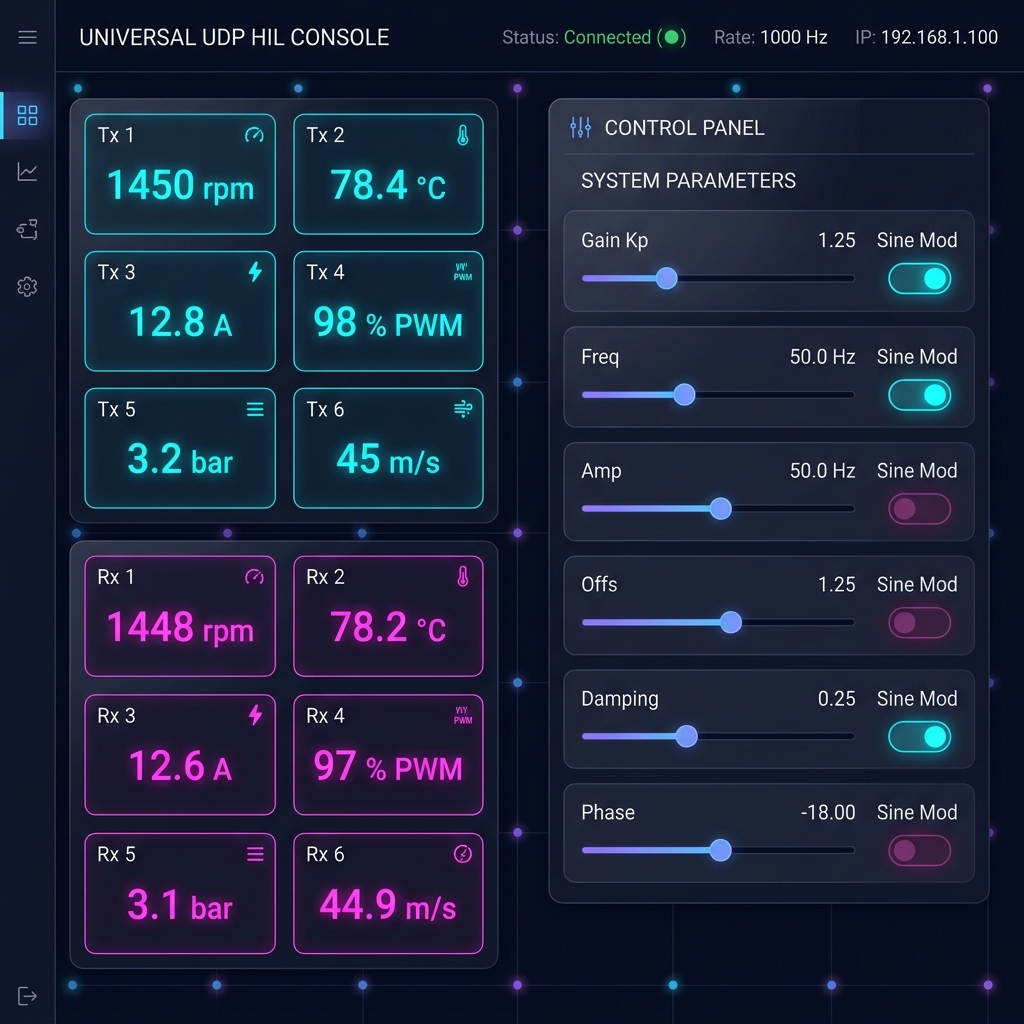
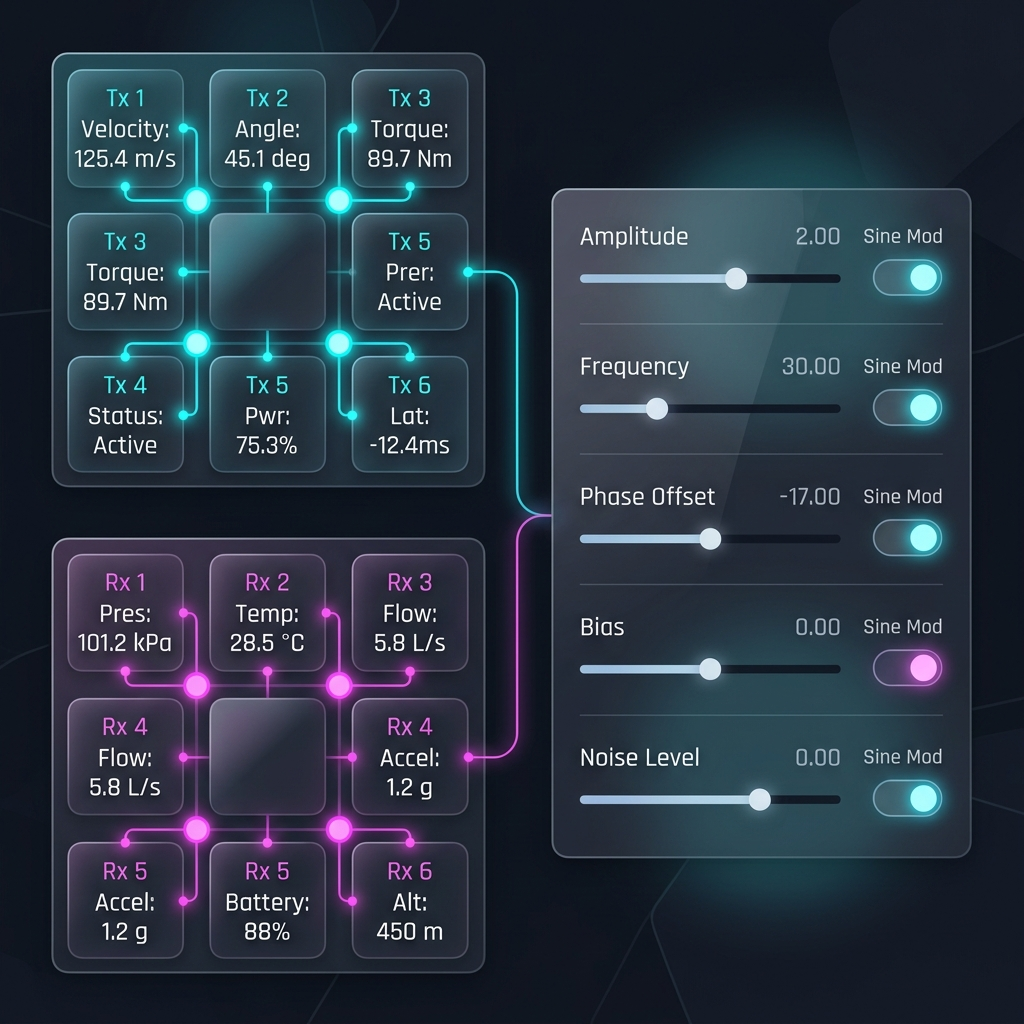
Remove HIL keyword from dashboard title, headers, and docs

diff --git a/public/index.html b/public/index.html
@@ -3,7 +3,7 @@
 <head>
   <meta charset="UTF-8">
   <meta name="viewport" content="width=device-width, initial-scale=1.0">
-  <title>Universal HIL UDP Console</title>
+  <title>Universal UDP Console</title>
   <!-- Google Fonts: Inter & Outfit -->
   <link href="https://fonts.googleapis.com/css2?family=Inter:wght@300;400;600;700&family=Outfit:wght@400;600;800&display=swap" rel="stylesheet">
   <!-- Stylesheet -->
@@ -18,7 +18,7 @@
   <div class="dashboard-wrapper">
     <header class="dashboard-header">
       <div class="title-section">
-        <h1>Universal UDP HIL Console</h1>
+        <h1>Universal UDP Console</h1>
         <p class="subtitle">Generic Telemetry & Control Platform (6x Double BE)</p>
       </div>
       <div class="status-indicator">

diff --git a/README.md b/README.md
@@ -1,8 +1,8 @@
-# Universal UDP HIL Console
+# Universal UDP Console
 
-A high-performance, unified Node.js real-time simulation dashboard designed to simulate, monitor, and control HIL (Hardware-In-the-Loop) signals for any LabVIEW UI utilizing a 6-channel double-precision UDP structure.
+A high-performance, unified Node.js real-time simulation dashboard designed to simulate, monitor, and control signals for any LabVIEW UI utilizing a 6-channel double-precision UDP structure.
 
-![Universal HIL UDP Console](screenshot.jpg)
+![Universal UDP Console](screenshot.jpg)
 
 ## Features
 * **No Python Prerequisite**: The simulation loop runs directly within the Node.js backend.